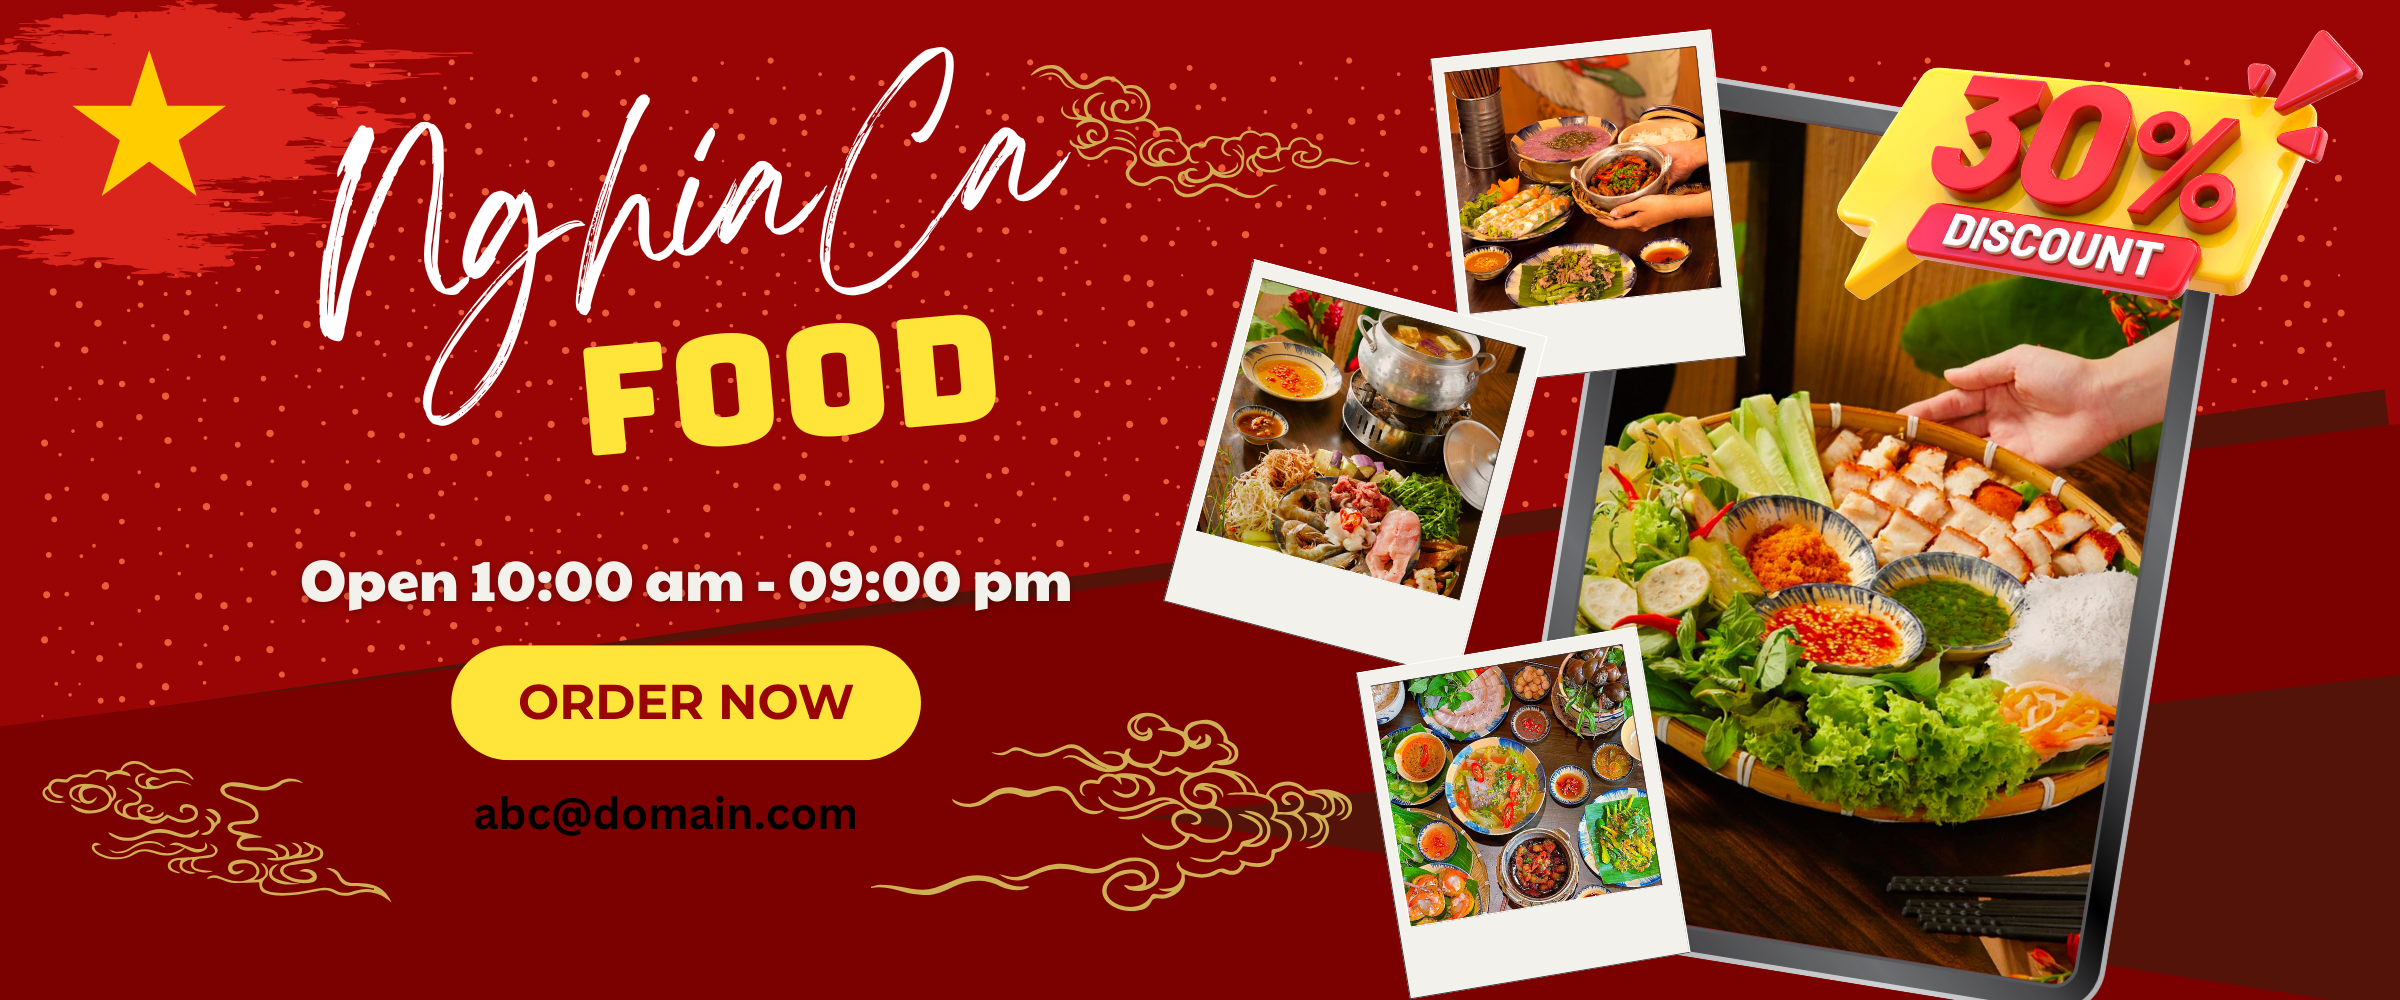
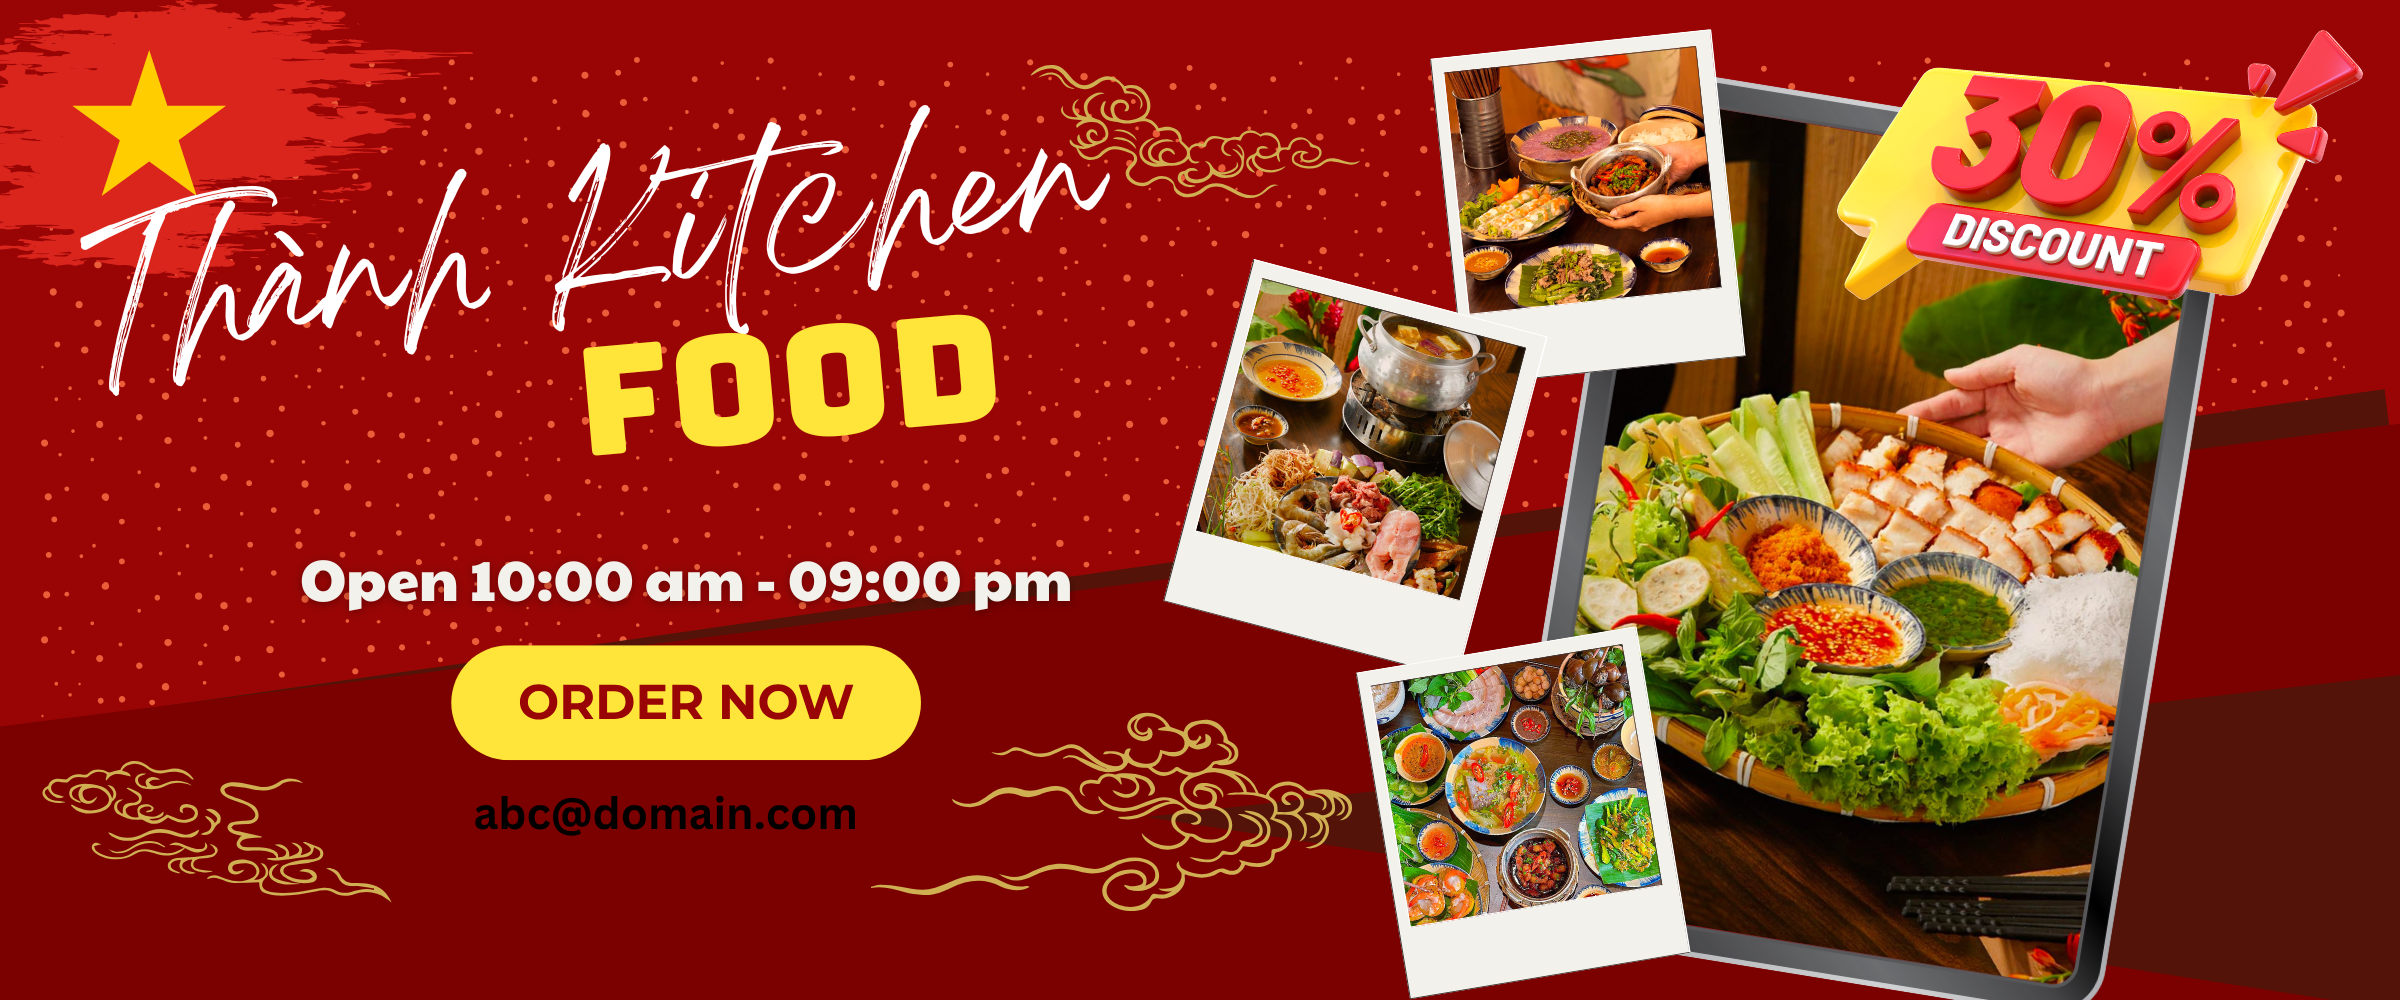
change title shop

Changed region(s): [[0.0312, 0.031, 0.4688, 0.434]]

diff --git a/index.html b/index.html
@@ -5,7 +5,7 @@
     <meta charset="UTF-8">
     <meta http-equiv="X-UA-Compatible" content="IE=edge">
     <meta name="viewport" content="width=device-width, initial-scale=1.0">
-    <title>NghiaCa Food</title>
+    <title>Thành Kitchen</title>
     <link href='./assets/img/favicon.png' rel='icon' type='image/x-icon' />
     <link rel="stylesheet" href="./assets/css/main.css">
     <link rel="stylesheet" href="./assets/css/home-responsive.css">
@@ -37,7 +37,7 @@
                 <div class="header-middle-left">
                     <div class="header-logo">
                         <a href="">
-                            <img src="./assets/img/nghiaca-food.png" alt="" class="header-logo-img">
+                            <img src="./assets/img/thanh-kitchen.png" alt="" class="header-logo-img">
                         </a>
                     </div>
                 </div>
@@ -390,7 +390,7 @@
             <div class="footer-top">
                 <div class="footer-top-content">
                     <div class="footer-top-img">
-                        <img src="./assets/img/nghiaca-food.png" alt="">
+                        <img src="./assets/img/thanh-kitchen.png" alt="">
                     </div>
                     <div class="footer-top-subbox">
                         <div class="footer-top-subs">
@@ -414,7 +414,7 @@
                     <div class="widget-row-col-1">
                         <h3 class="widget-title">Về chúng tôi</h3>
                         <div class="widget-row-col-content">
-                            <p>NghiaCa Food là thương hiệu được thành lập vào năm 2024 với tiêu chí đặt chất lượng sản
+                            <p>Thành Kitchen là thương hiệu được thành lập vào năm 2024 với tiêu chí đặt chất lượng sản
                                 phẩm
                                 lên hàng đầu.</p>
                         </div>
@@ -550,7 +550,7 @@
     <div class="copyright-wrap">
         <div class="container">
             <div class="copyright-content">
-                <p>Copyright 2024 NghiaCa Food. All Rights Reserved.</p>
+                <p>Copyright 2024 Thành Kitchen. All Rights Reserved.</p>
             </div>
         </div>
     </div>
